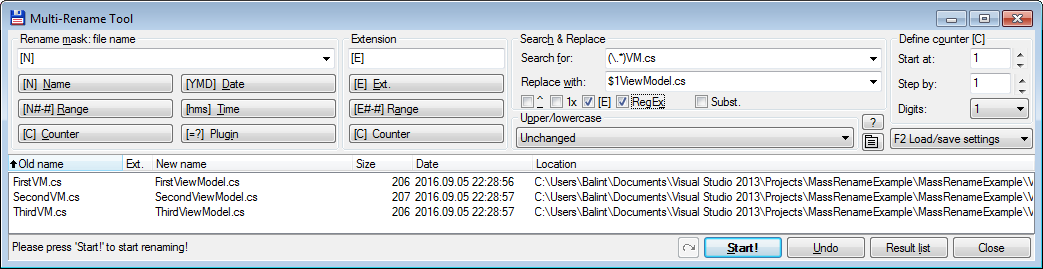
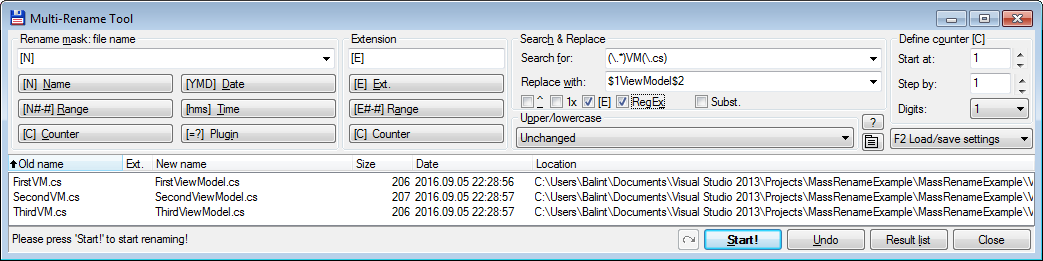
content of mass rename post finished

diff --git a/_posts/2016-09-05-mass-rename-classes.md b/_posts/2016-09-05-mass-rename-classes.md
@@ -97,8 +97,45 @@ Replace with: $1$2ViewModel$3
    Select all files and open Multi-Rename Tool (Ctrl+M)
    
 ```
-Search for: (\.*)VM.cs
-Replace with: $1ViewModel.cs
+Search for: (\.*)VM(\.cs)
+Replace with: $1ViewModel$2
 ```
     
    ![alt text](https://github.com/BalintPogatsa/BalintPogatsa.github.io/raw/master/img/step3_mass_rename_postfixed_class.png "Rename files")
+   
+2. Replace postfix of WPF controls
+In this case I will search for "V" postfix and replace it with "View"
+
+- Renaming all occurences in code and references in project files 
+   
+   Notepad++ - Find in Files tool (Ctrl+Shift+F).
+   File filters (*V.xaml *V.xaml.cs)
+   
+```
+Find what: ([\W+])([A-Z]\w+)V([\W+])
+Replace with: $1$2View$3
+```
+
+   ![alt text](https://github.com/BalintPogatsa/BalintPogatsa.github.io/raw/master/img/step0_mass_rename_postfixed_wpf_control.png "Replace class names in source code")
+   
+   For project files (*.csproj)
+
+```
+Find what: ([\W+])([A-Z]\w+)V(\.xaml\W+)
+Replace with: $1$2View$3
+```
+
+   ![alt text](https://github.com/BalintPogatsa/BalintPogatsa.github.io/raw/master/img/step1_mass_rename_postfixed_class.png "Replace file references in project files")
+   
+   - Renaming files
+   
+   Total Commander - Find files tool (Ctrl+F) with *V.xaml* filter - Feed to listbox
+   
+   Select all files and open Multi-Rename Tool (Ctrl+M)
+   
+```
+Search for: (\.*)V(\.xaml(\.cs)*)
+Replace with: $1View$2
+```
+    
+   ![alt text](https://github.com/BalintPogatsa/BalintPogatsa.github.io/raw/master/img/step3_mass_rename_postfixed_wpf_control.png "Rename files")   
